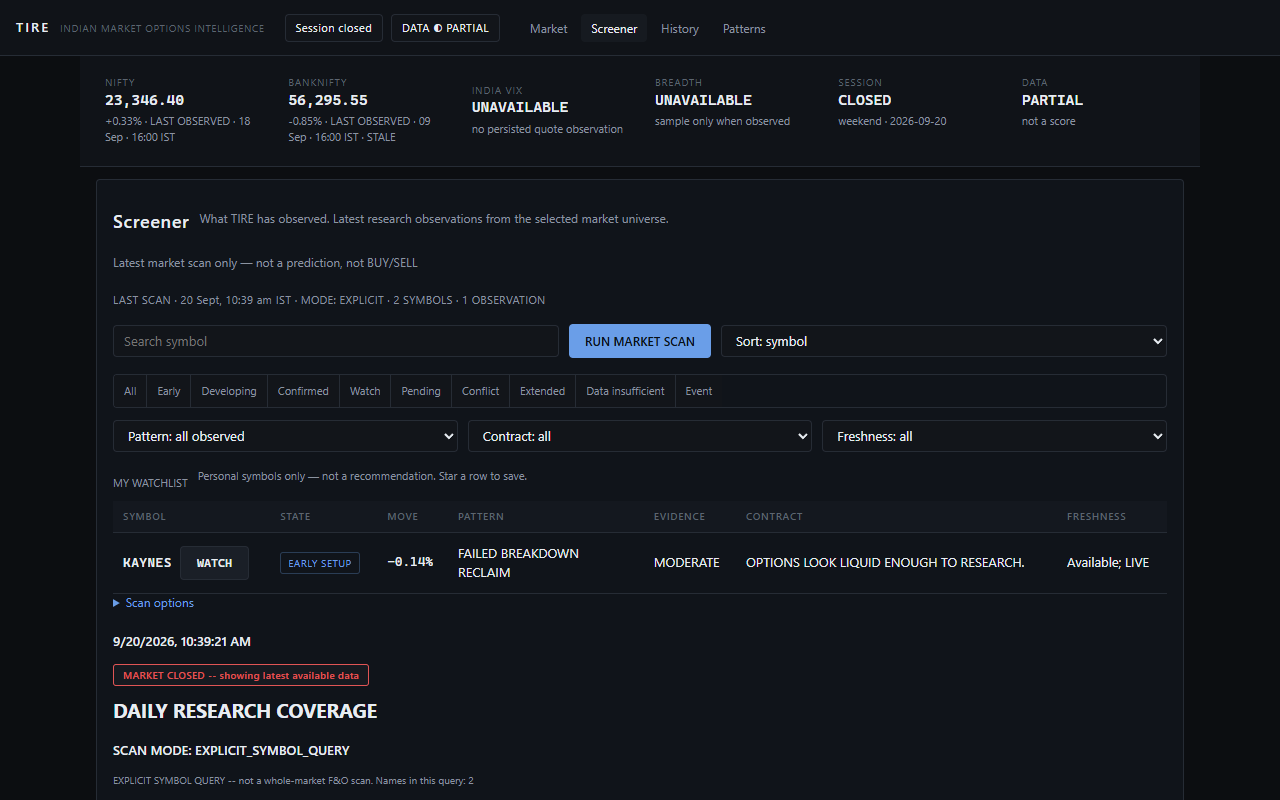
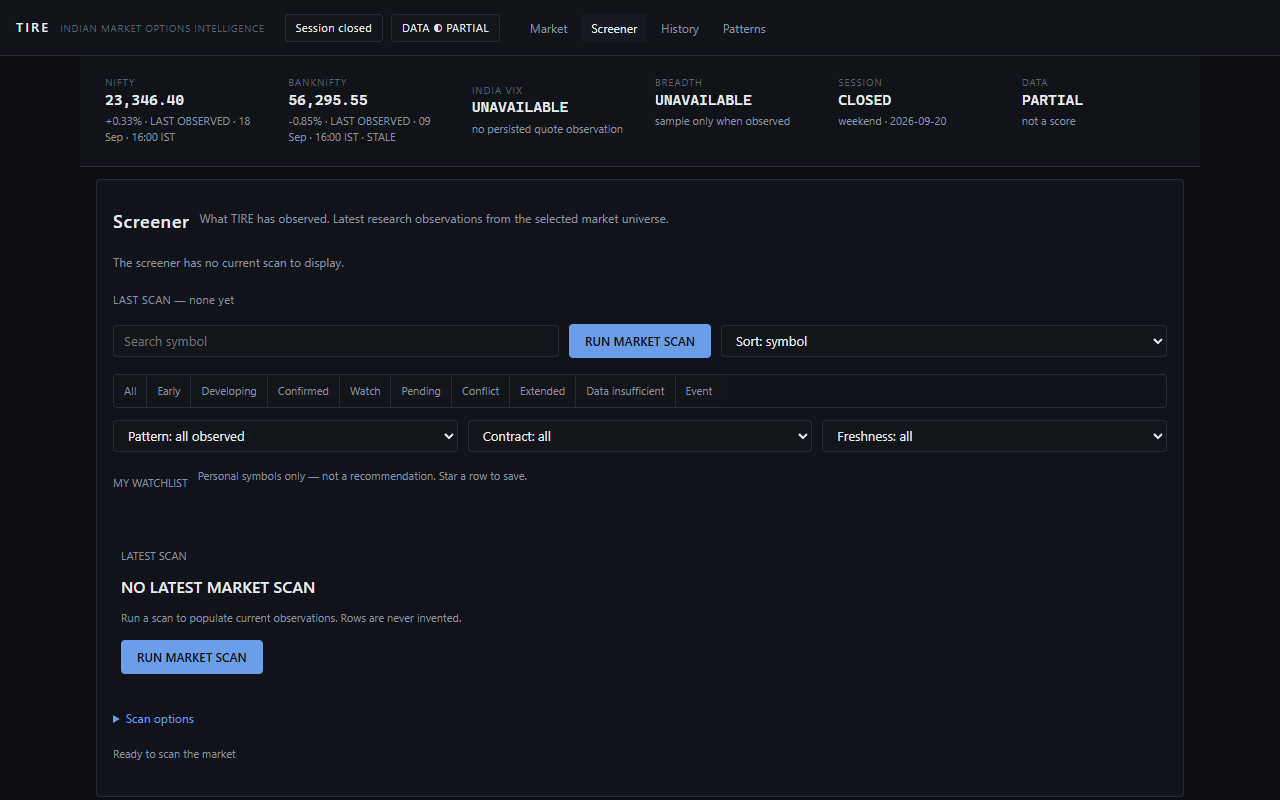
polish: collapse scan audit and keep analysis time off the L1 hero
The screener now leads with observations; coverage dump sits in a collapsed audit. Symbol L1 shows last market observation only, with generated_at remaining in detail metadata.

diff --git a/app/api/static/index.html b/app/api/static/index.html
@@ -1422,11 +1422,7 @@ function renderSymbolHero(data) {
   top.appendChild(el("span", { style: "font-family:var(--mono);font-size:20px", text: move }));
   host.appendChild(top);
   const meta = el("div", { class: "hero-grid" });
-  let analysisGen = "n/a";
-  if (data.generated_at) {
-    analysisGen = new Date(data.generated_at).toLocaleString("en-IN", { timeZone: "Asia/Kolkata", day: "2-digit", month: "short", hour: "2-digit", minute: "2-digit" }) + " IST";
-  }
-  [["SESSION", session], ["DATA", dataCode], ["LAST MARKET OBSERVATION", marketObs], ["ANALYSIS GENERATED", analysisGen]].forEach(([k, val]) => {
+  [["SESSION", session], ["DATA", dataCode], ["LAST MARKET OBSERVATION", marketObs]].forEach(([k, val]) => {
     const b = el("div", { class: "hero-block" });
     b.appendChild(el("div", { class: "k", text: k }));
     b.appendChild(el("div", { class: "v", text: val }));
@@ -2036,6 +2032,14 @@ function renderDiscoverResults(data) {
     data.rejected.forEach((r) => ul.appendChild(el("li", { text: r.symbol + ": " + r.reason })));
     rejectedDetails.appendChild(ul);
     results.appendChild(rejectedDetails);
+  }
+  const kids = Array.from(results.childNodes);
+  if (kids.length) {
+    results.innerHTML = "";
+    const audit = el("details", { id: "scan-audit" });
+    audit.appendChild(el("summary", { text: "Scan audit — coverage only, not a ranking" }));
+    kids.forEach((node) => audit.appendChild(node));
+    results.appendChild(audit);
   }
 }
 

diff --git a/tests/integration/api/test_live_operation_api.py b/tests/integration/api/test_live_operation_api.py
@@ -584,7 +584,10 @@ def test_dashboard_html_does_not_infer_timing_or_confuse_analysis_clock() -> Non
     assert "Indian Market Options Intelligence" in html
     assert "What TIRE has observed" in html
     assert "surface-workspace" in html
-    assert "ANALYSIS GENERATED" in html
+    assert "LAST MARKET OBSERVATION" in html
+    assert "data.market_observed_at" in html
+    assert "Report generated at" in html
+    assert "Scan audit — coverage only, not a ranking" in html
     assert "if (analyzingQuery !== wanted)" in html
     # Per-stream glance times come from the observed-market payload.
     assert "cell.observed_at_ist" in html
